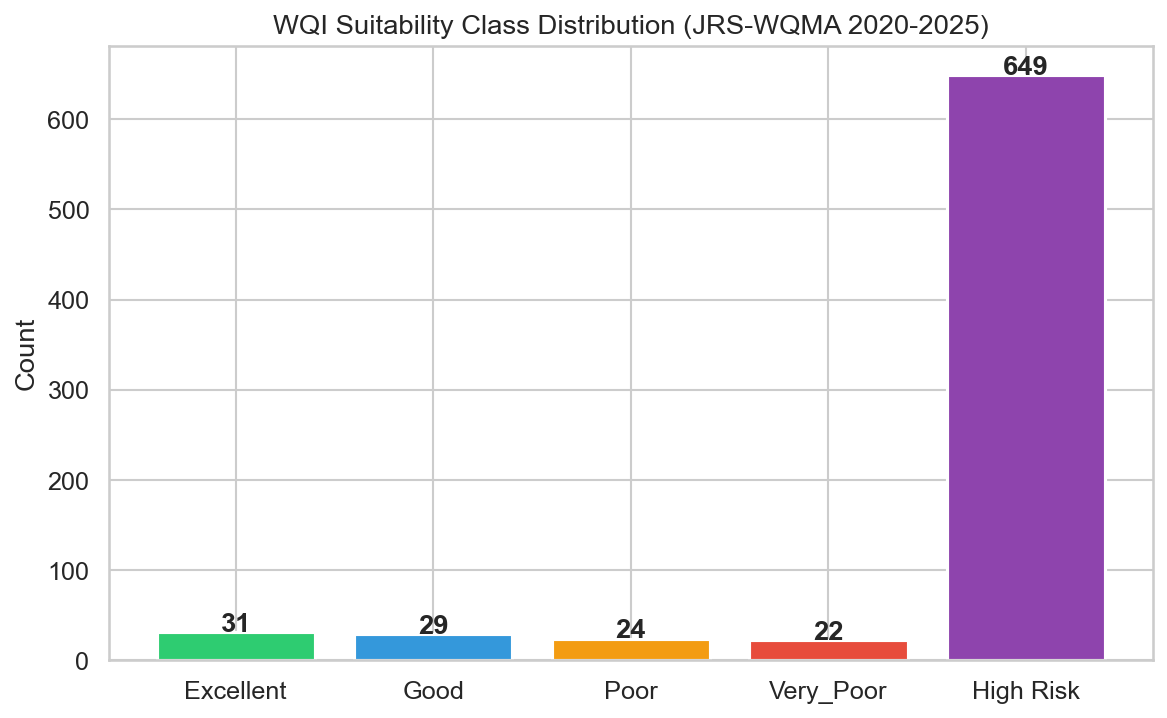
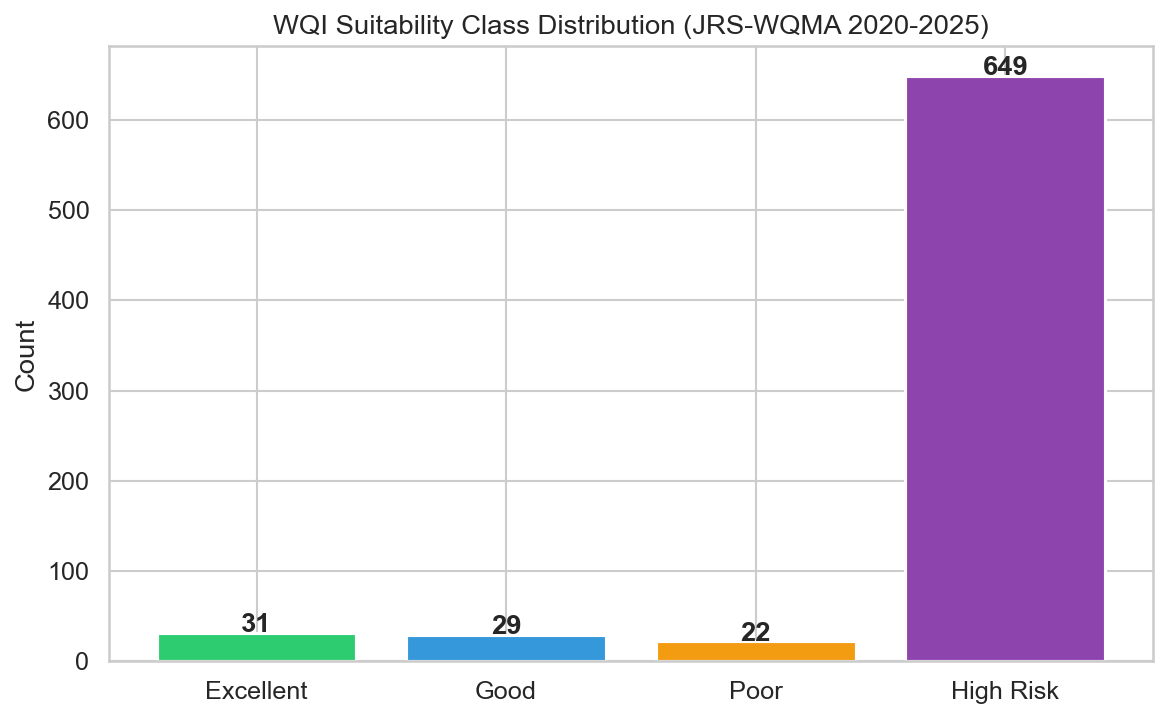
refactor: update WQI classification categories and add class distribution plot

diff --git a/wqi_pipeline.py b/wqi_pipeline.py
@@ -342,9 +342,9 @@ def assign_wqi_class(wqi_value):
     elif wqi_value <= 50:
         return "Good"
     elif wqi_value <= 75:
-        return "Poor"
+        return "Fair"
     elif wqi_value <= 100:
-        return "Very_Poor"
+        return "Poor"
     else:
         return "High Risk"
 
